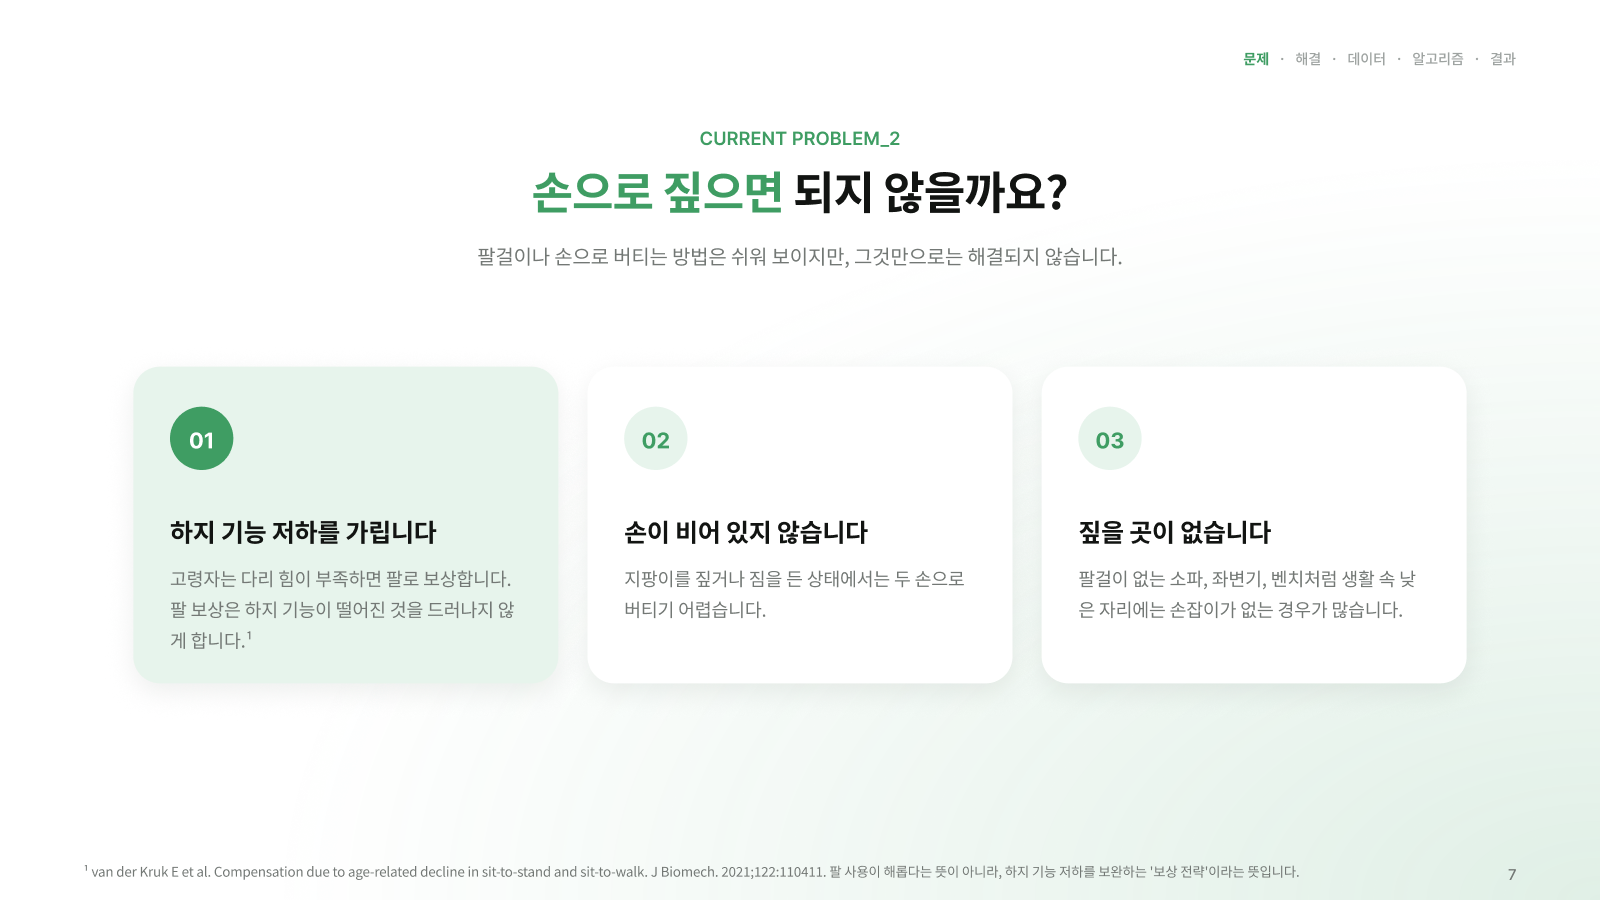
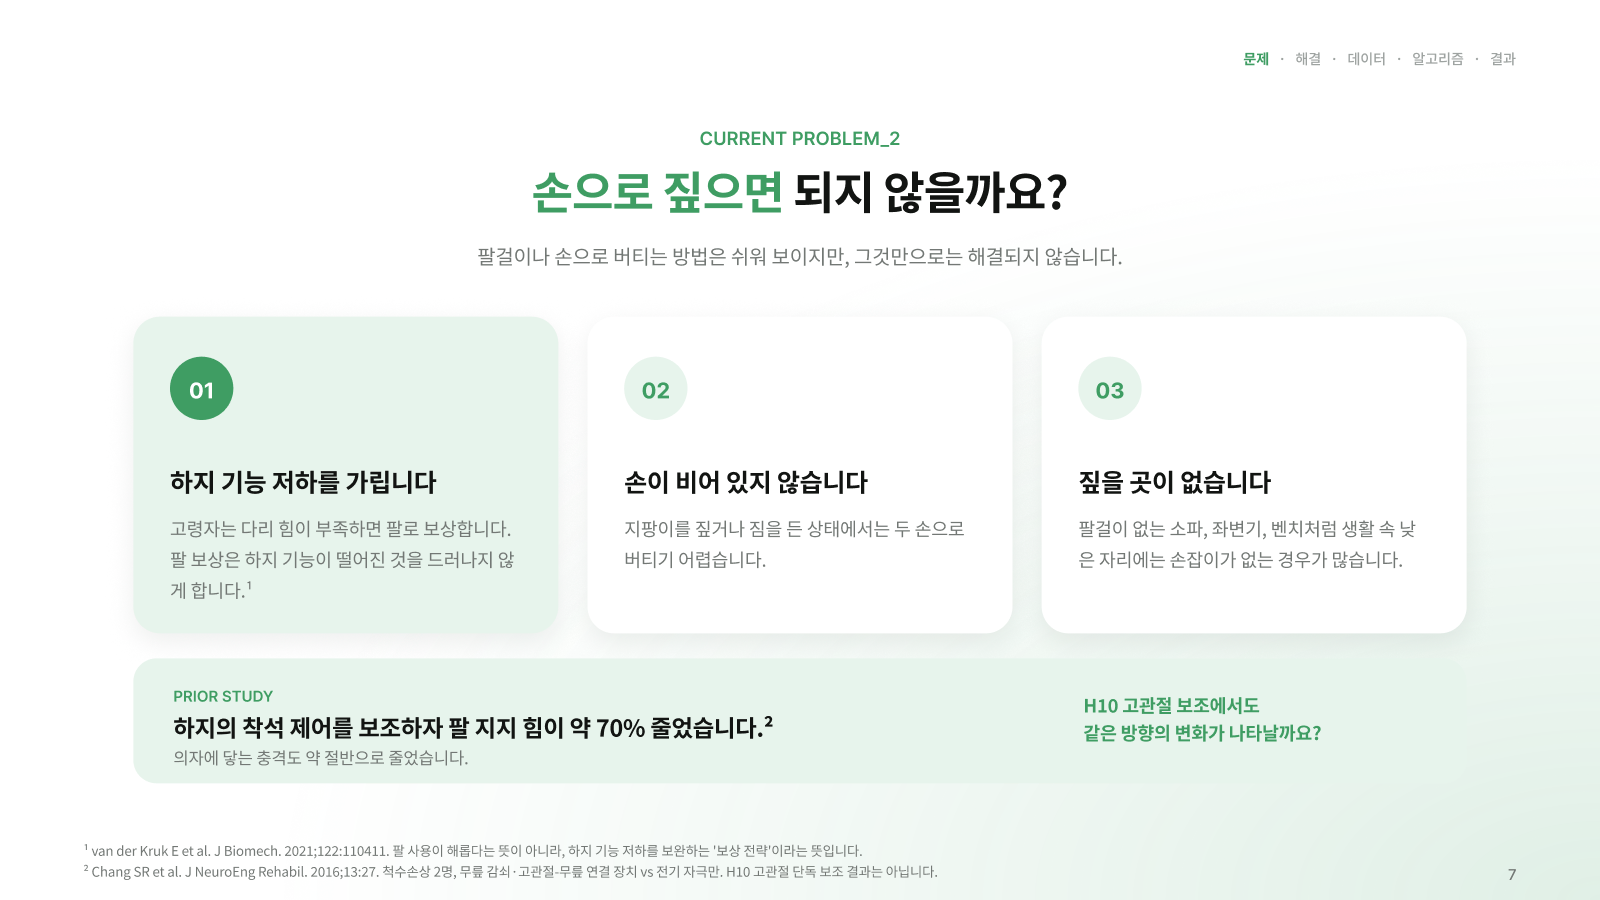
Add Chang 2016 prior-study evidence to slide 7, poster and README

diff --git a/poster/make_poster.py b/poster/make_poster.py
@@ -228,8 +228,9 @@ def build(template: Path, out: Path, figs: Path, metrics_csv: Path, real_dir: Pa
         ["고관절 신전근¹은 편심성 수축²으로 ", ("① 숙인 상체를 버티고 ② 하강 속도를 제동", {"bold": True}),
          "한다. 고령자는 상체를 약 10° 덜 숙이고[5], 근력이 약하면 빠르게 내려가며 ",
          ("무게중심이 발 뒤로 빠진다", {"bold": True, "color": WINE}), " (고령자 낙상의 17.6%가 뒤로 주저앉음[6])."]])
-    box(s, R, 43.0, CW, 3.3, [["H10 고관절 ", ("신전 토크", {"bold": True}), " 하나로"],
-                              [("상체 지지 + 하강 제동", {"bold": True, "color": WINE}), "을 동시에 보조"]], size=30)
+    box(s, R, 43.0, CW, 3.3, [["H10 ", ("신전 토크", {"bold": True}), " 하나로 ",
+                               ("상체 지지 + 하강 제동", {"bold": True, "color": WINE}), "을 동시에 보조"],
+                              ["선행 연구: 하지 착석 보조 시 팔 지지 힘 약 70% 감소[8]"]], size=28)
 
     # 3. 알고리즘 설계 ---------------------------------------------------------
     section(s, 2.5, 47.8, 84.9, "3. 알고리즘 설계")
@@ -308,7 +309,8 @@ def build(template: Path, out: Path, figs: Path, metrics_csv: Path, real_dir: Pa
               "[4] Balasubramanian S et al. J NeuroEng Rehabil. 2015;12:112.", "size": 15, "color": R_},
         {"t": "[5] Dubost V et al. Phys Ther. 2005;85(5):404–412.   "
               "[6] Stevens JA et al. Inj Epidemiol. 2014;1:5.   "
-              "[7] van der Kruk E et al. J Biomech. 2021;122:110411.", "size": 15, "color": R_}],
+              "[7] van der Kruk E et al. J Biomech. 2021;122:110411.   "
+              "[8] Chang SR et al. J NeuroEng Rehabil. 2016;13:27.", "size": 15, "color": R_}],
         size=15, space_after=2)
 
     # 5. 결과 및 기대 효과 --------------------------------------------------------

diff --git a/README.md b/README.md
@@ -22,6 +22,7 @@
 | 마지막 순간이 가장 빠릅니다 | 제동이 풀리면 착석 직전에 속도가 붙어 의자에 세게 부딪히거나 뒤로 넘어지기 쉽습니다. |
 | 생활 곳곳에 있습니다 | 소파, 좌변기, 좌식 의자처럼 매일 앉는 자리가 낮습니다. |
 | 손으로 짚으면 되지 않나요? | 팔로 버티는 것은 하지 기능 저하를 가리는 보상 전략입니다[^vanderkruk]. 지팡이·짐을 든 상황이나 팔걸이 없는 소파·좌변기에서는 쓸 수 없습니다. |
+| 하지 보조로 팔 부담이 줄까요? | 선행 연구에서 하지의 착석 제어를 보조하자 팔 지지 힘이 약 70% 줄고 의자 충격이 약 절반으로 줄었습니다[^chang]. 척수손상 2명, 무릎 장치 결과라서 H10 효과로 바로 옮길 수는 없습니다. H10 OFF/ON 비교로 같은 방향의 변화가 나타나는지 확인합니다. |
 
 그래서 알고리즘에는 **DEEP 단계(평소 착석 각도 + 2SD를 넘어 계속 내려감 → 낮은 의자로 판단, 제동 1.5배)** 가 있습니다.
 
@@ -203,6 +204,7 @@ python compare_h10_runs.py --off <OFF 로그들> --on <ON 로그들> --out resul
 [^dubost]: Dubost V, Beauchet O, Manckoundia P, et al. Decreased trunk angular displacement during sitting down: an early feature of aging. *Phys Ther*. 2005;85(5):404–412.
 [^stevens]: Stevens JA, Mahoney JE, Ehrenreich H. Circumstances and outcomes of falls among high risk community-dwelling older adults. *Inj Epidemiol*. 2014;1:5.
 [^vanderkruk]: van der Kruk E, Silverman AK, Reilly P, Bull AMJ. Compensation due to age-related decline in sit-to-stand and sit-to-walk. *J Biomech*. 2021;122:110411.
+[^chang]: Chang SR, Nandor MJ, Kobetic R, Foglyano KM, Quinn RD, Triolo RJ. Improving stand-to-sit maneuver for individuals with spinal cord injury. *J NeuroEng Rehabil*. 2016;13:27.
 [^jeon]: Jeon et al. *Front Hum Neurosci*. 2024. 앉기는 일어서기의 역동작이 아니라 하강 중 균형 제어가 필요한 동작이며, 부드럽게 앉을수록 고관절 근육의 기여가 커집니다 (젊은 성인 12명).
 [^kim2025]: Kim et al. *Medicina*. 2025;61(6):1065 (Kim & Won 2020 재인용).
 [^survey2020]: 보건복지부. 2020 노인실태조사 (언론 보도 재인용).

diff --git a/presentation/발표_흐름.md b/presentation/발표_흐름.md
@@ -15,7 +15,7 @@ Figma Slides: https://www.figma.com/slides/4tZDoTD6FXxpx83Z0kraKR
 | 4 | TARGET PERSONA | 착석 제어가 어려운 근감소증 위험 고령자 | 유병률 남 26.8%·여 18.8% (Kim 2025), 낙상 경험률 7.2% (2020 노인실태조사) |
 | 5 | WHY LOW CHAIR | 낮은 의자 착석은 왜 더 어렵고 위험할까요? | 실측 +9°, 더 오래·더 숙여서 버팀 (Yoshioka 2014), 착석 직전 가속, 생활 속 낮은 자리 |
 | 6 | CURRENT PROBLEM | 낮은 의자에서는 무엇이 달라질까요? | 급하강, 뒤로 주저앉기 (Dubost 2005, Stevens 2014) |
-| 7 | CURRENT PROBLEM_2 | 손으로 짚으면 되지 않을까요? | 팔 보상 전략 (van der Kruk 2021), 손이 비어 있지 않음, 짚을 곳 없음 |
+| 7 | CURRENT PROBLEM_2 | 손으로 짚으면 되지 않을까요? | 팔 보상 전략 (van der Kruk 2021), 손이 비어 있지 않음, 짚을 곳 없음. 선행 연구: 하지 착석 보조 시 팔 지지 힘 약 70% 감소 (Chang 2016) |
 | 8 | WHY H10 | 측정과 개입을 한 장치에서 할 수 있을까요? | 측정 → 판단 → 신전 토크 폐루프 |
 | 9 | SOLUTION · Core Idea | Low-Chair Adaptive Braking | 상체 지지 + 적응형 하강 제동 + 낮은 의자 감지 |
 | 10 | DATA | H10 로그 데이터 | SUIT 로그 4개 → 디코딩 → 100 Hz → 앉기 검출 |
